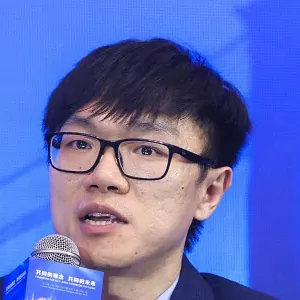
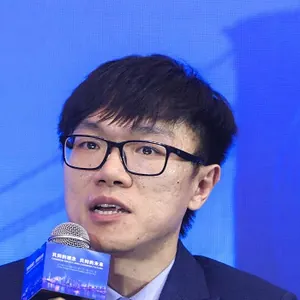
Zoom out homepage headshot ~17% for more shoulder room.
Expand face crop from 300×300 (590,135,890,435) to 350×350
(565,110,915,460) on the panel raw; regenerate square assets
and document the new box in TREATMENT.md.

diff --git a/scripts/headshot/process.py b/scripts/headshot/process.py
@@ -30,7 +30,7 @@ OUT = ROOT / "public/headshot"
 
 # Face-centred square (source pixels). Matches the prior circle hero crop.
 CROPS = {
-    "square": (590, 135, 890, 435),  # 300 × 300
+    "square": (565, 110, 915, 460),  # 350 × 350 (~17% zoom-out from 300)
 }
 SIZES = {
     "square": {"1x": (160, 160), "2x": (300, 300)},

diff --git a/docs/headshot/TREATMENT.md b/docs/headshot/TREATMENT.md
@@ -6,8 +6,9 @@ face retouching.
 ## Source
 
 - **Current (restored 2026-10-12):** full-res panel
-  `_source/ken-panel-headshot-raw.jpg` (1280×854) with Scholar-matching face
-  crop `(590, 135, 890, 435)` → 300×300.
+  `_source/ken-panel-headshot-raw.jpg` (1280×854) with face-centred
+  crop `(565, 110, 915, 460)` → 350×350 (~17% zoom-out from the prior
+  Scholar-matched 300×300 box at `(590, 135, 890, 435)`).
 - Google Scholar profile downloads (provenance; refreshed from CDN):
   - `_source/ken-scholar-profile-view.jpg` — `view_photo`
   - `_source/ken-scholar-profile-medium.jpg` — `medium_photo`
@@ -18,7 +19,7 @@ face retouching.
 
 The Scholar `medium_photo` is effectively a Lanczos downscale of the full-res
 raw (MAE ≈ 3.5 / 255), so outputs are rendered from the raw file for sharpness
-while matching Scholar’s framing / zoom.
+with a slightly wider framing than Scholar’s medium_photo zoom.
 
 ### Unused (kept on disk; not in the pipeline)
 
@@ -37,8 +38,8 @@ python3 scripts/headshot/process.py path/to/original.jpg
 
 1. Gentle grade (warm R×1.03 / B×0.97, contrast ×1.04, +2 lift). Backdrop is
    left as photographed — same look as Scholar, not a teal-bokeh mask.
-2. Face-centred square crop `(590, 135, 890, 435)` → 300×300 (matches Scholar
-   framing / zoom).
+2. Face-centred square crop `(565, 110, 915, 460)` → 350×350 (~17% zoom-out
+   from prior Scholar-matched `(590, 135, 890, 435)` / 300×300).
 3. Lanczos resize + light unsharp (r 0.8, 35%, threshold 2).
 4. Encode JPEG q84 progressive, WebP q80 m6, AVIF q60 speed 4.
 
